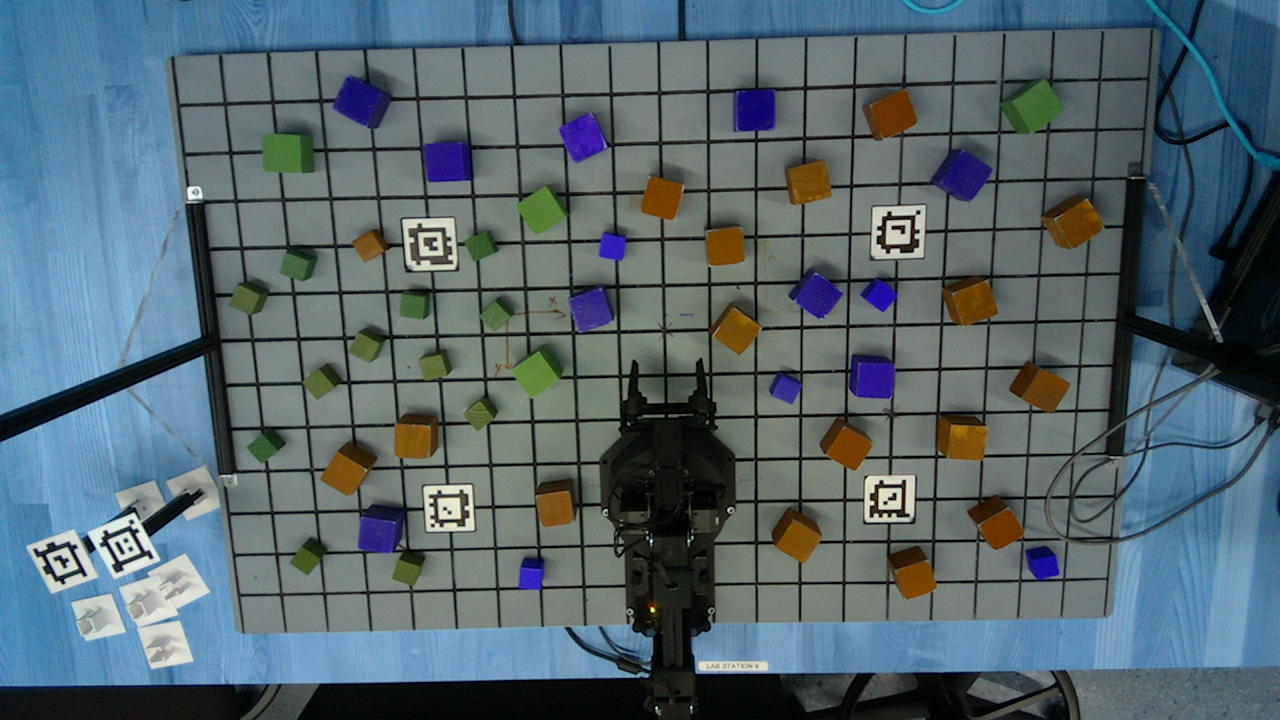
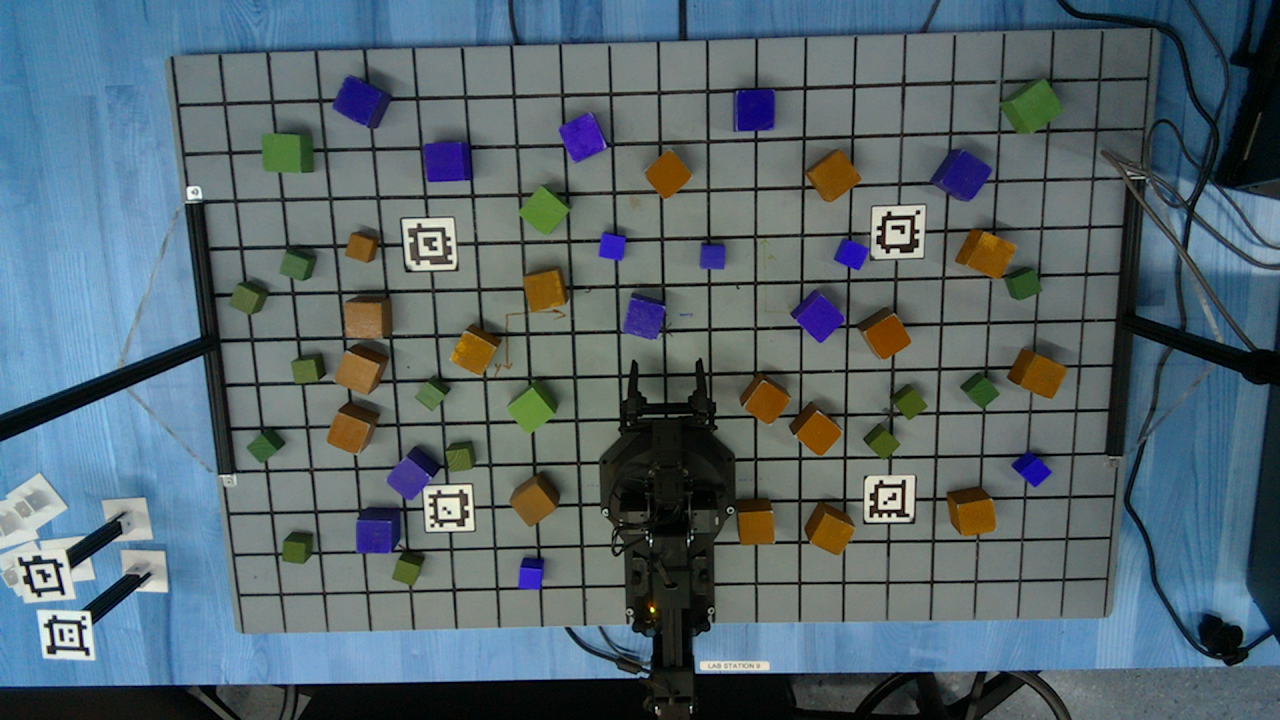
block_detection_canny

diff --git a/src/block_detection.py b/src/block_detection.py
@@ -101,8 +101,8 @@ def detectBlocksInDepthImage(rgb_img,depth_img):
     P_w = np.linalg.inv(extrinsic_matrix) @ P_c
     points_3d = P_w.T[:, 2].reshape(depth_img.shape[0], depth_img.shape[1], 1)
 
-    cv2.imwrite("affline_depth.png", points_3d)
-    depth_data2 = cv2.imread("affline_depth.png")
+    cv2.imwrite("affline_depth4.png", points_3d)
+    depth_data2 = cv2.imread("affline_depth4.png")
     # y = np.arange(rgb_img.shape[0]) #720
     # x = np.arange(rgb_img.shape[1])
     # mesh_x, mesh_y = np.meshgrid(x, y)
@@ -121,57 +121,105 @@ def detectBlocksInDepthImage(rgb_img,depth_img):
     # cv2.waitKey(0)
     # cv2.destroyAllWindows()
     
+   
+    #depth_data = points_3d
     depth_data = points_3d
-    cnt_image = rgb_img
-    lower = 10
-    upper = 50
-
+    gray_image = cv2.cvtColor(rgb_img, cv2.COLOR_BGR2GRAY)
     
-    print(points_3d.shape)
-    print(depth_data2.shape)
+    # #  using depth image to detect contour
+    # lower = 10
+    # upper = 40
+    # mask = np.zeros_like(depth_data, dtype=np.uint8)
+    # cv2.rectangle(mask, (250,80),(1100,720), 255, cv2.FILLED)
+    # cv2.rectangle(mask, (600,360),(730,710), 0, cv2.FILLED)
+    # cv2.rectangle(depth_data2, (250,80),(1100,720), (255, 0, 0), 2)
+    # cv2.rectangle(depth_data2, (600,360),(730,710), (255, 0, 0), 2)
+    # thresh = cv2.bitwise_and(cv2.inRange(depth_data, lower, upper), mask)
+    # contours, _ = cv2.findContours(thresh, cv2.RETR_EXTERNAL, cv2.CHAIN_APPROX_SIMPLE)
 
-    mask = np.zeros_like(depth_data, dtype=np.uint8)
-    cv2.rectangle(mask, (275,120),(1100,720), 255, cv2.FILLED)
-    cv2.rectangle(mask, (575,414),(723,720), 0, cv2.FILLED)
-    cv2.rectangle(depth_data2, (275,120),(1100,720), (255, 0, 0), 2)
-    cv2.rectangle(depth_data2, (575,414),(723,720), (255, 0, 0), 2)
-    thresh = cv2.bitwise_and(cv2.inRange(depth_data, lower, upper), mask)
-    contours, _ = cv2.findContours(thresh, cv2.RETR_EXTERNAL, cv2.CHAIN_APPROX_SIMPLE)
-    # cv2.drawContours(depth_data2, contours, -1, (0,255,255), thickness=1)
+    # for contour in contours:
+    #     epsilon = 0.06 * cv2.arcLength(contour, True)
+    #     approx = cv2.approxPolyDP(contour, epsilon, True)
+    #     if len(approx) == 4:
+    #         cv2.drawContours(depth_data2, contour, -1, (0,255,255), thickness = 1)
+    #         theta = cv2.minAreaRect(contour)[2]
+    #         M = cv2.moments(contour)
+    #         cx = 1
+    #         cy = 1
+    #         if M['m00'] != 0:
+    #             cx = int(M['m10']/M['m00'])
+    #             cy = int(M['m01']/M['m00'])
+    #         cv2.circle(depth_data2,(cx,cy),3,(0,255,0),-1)
+    #         cv2.putText(depth_data2, str(int(theta)), (cx, cy), font, 0.5, (0,255,255), thickness=2)
+
+    # cv2.imshow("Image window", depth_data2)
+    # cv2.waitKey(0)
+
+
+
+    cv2.imwrite("affline_depth.png", points_3d)
+    points_3d = cv2.imread("affline_depth.png", cv2.IMREAD_GRAYSCALE)
+    kernel_size = 3
+    blurred_edges = cv2.GaussianBlur(points_3d,(kernel_size,kernel_size), 10)
+    cv2.imshow("Blurred edges",blurred_edges)
+    blurred_edges = cv2.Canny(blurred_edges,10, 25,apertureSize=3,L2gradient=True)
+    
+    lower = -1
+    upper = 2
+    # mask = np.zeros_like(blurred_edges, dtype=np.uint8)
+    # cv2.rectangle(mask, (250,80),(1100,720), 255, cv2.FILLED)
+    # cv2.rectangle(mask, (600,360),(730,710), 0, cv2.FILLED)
+    # cv2.rectangle(blurred_edges, (250,80),(1100,720), (255, 0, 0), 2)
+    # cv2.rectangle(blurred_edges, (600,360),(730,710), (255, 0, 0), 2)
+    # thresh = cv2.bitwise_and(cv2.inRange(blurred_edges, lower, upper), mask)
+    contours, _ = cv2.findContours(blurred_edges, cv2.RETR_EXTERNAL, cv2.CHAIN_APPROX_SIMPLE)
+    # cv2.drawContours(rgb_img, contours, -1, (0,255,0), thickness = -1)
 
     for contour in contours:
-        cv2.drawContours(depth_data2, contour, -1, (0,255,255), thickness = 1)
-        theta = cv2.minAreaRect(contour)[2]
-        M = cv2.moments(contour)
-        print(M)
-        cx = 1
-        cy = 1
-        if M['m00'] != 0:
-            cx = int(M['m10']/M['m00'])
-            cy = int(M['m01']/M['m00'])
-        cv2.putText(depth_data2, str(int(theta)), (cx, cy), font, 0.5, (0,255,255), thickness=2)
+        epsilon = 0.1 * cv2.arcLength(contour, True)
+        approx = cv2.approxPolyDP(contour, epsilon, True)
+        if len(approx) == 2:
+            cv2.drawContours(rgb_img, contour, -1, (0,255,255), thickness = 1)
+            theta = cv2.minAreaRect(contour)[2]
+            M = cv2.moments(contour)
+            cx = 1
+            cy = 1
+            if M['m00'] != 0:
+                cx = int(M['m10']/M['m00'])
+                cy = int(M['m01']/M['m00'])
+            cv2.circle(rgb_img,(cx,cy),3,(0,255,0),-1)
+            cv2.putText(rgb_img, str(int(theta)), (cx, cy), font, 0.5, (0,255,0), thickness=1)
 
-    cv2.imshow("Image window", depth_data2)
+
+    
+
+    cv2.imshow("original edges",rgb_img)
+    print("blurred img shape is: ", blurred_edges)
+
+
     cv2.waitKey(0)
-
-
- 
-
-
-    # edges = cv2.Canny(depth_img.astype(np.uint8), 20, 30)
-    # kernel_size = 5
-    # blurred_edges = cv2.GaussianBlur(edges,(kernel_size,kernel_size),0)
-    # cv2.imshow("Blurred edges",blurred_edges)
-    # cv2.imshow("original edges",edges)
-    # cv2.waitKey(0)
-    # cv2.destroyAllWindows()
-
+    cv2.destroyAllWindows()
 
 
 if __name__ == '__main__':
-    rgb_img = '../data/Deapth_RGB/RGB_image3.png'
-    depth_img = '../data/Deapth_RGB/depth_image3.png'
-    # rgb_img = 'C:\Users\Lynx1\Desktop\MS\A-Course\ROB 550\ROB550\data\Deapth_RGB\depth_image3.png'
-    # depth_img = 'C:\Users\Lynx1\Desktop\MS\A-Course\ROB 550\ROB550\data\Deapth_RGB\depth_image3.png'
+    rgb_img = '../data/Deapth_RGB/RGB_image4.png'
+    depth_img = '../data/Deapth_RGB/depth_image4.png'
     detectBlocksInDepthImage(rgb_img,depth_img)
+
+    # # test depth_image4
+    # depth_img3 = '../data/Deapth_RGB/depth_image3.png'
+    # depth_img4 = '../data/Deapth_RGB/depth_image4.png'
+    # depth_img3 = cv2.imread(depth_img3, cv2.IMREAD_UNCHANGED)
+    # depth_img4 = cv2.imread(depth_img4, cv2.IMREAD_UNCHANGED)
+
+    # counter = 0
+    # for row in depth_img3:
+    #     for element in row:
+    #         if element != 0:
+    #             counter +=1
+
+    # print(depth_img3)
+    # print("----------------------------------------------------------")
+    # print(depth_img4)
+    # print(counter)
    
